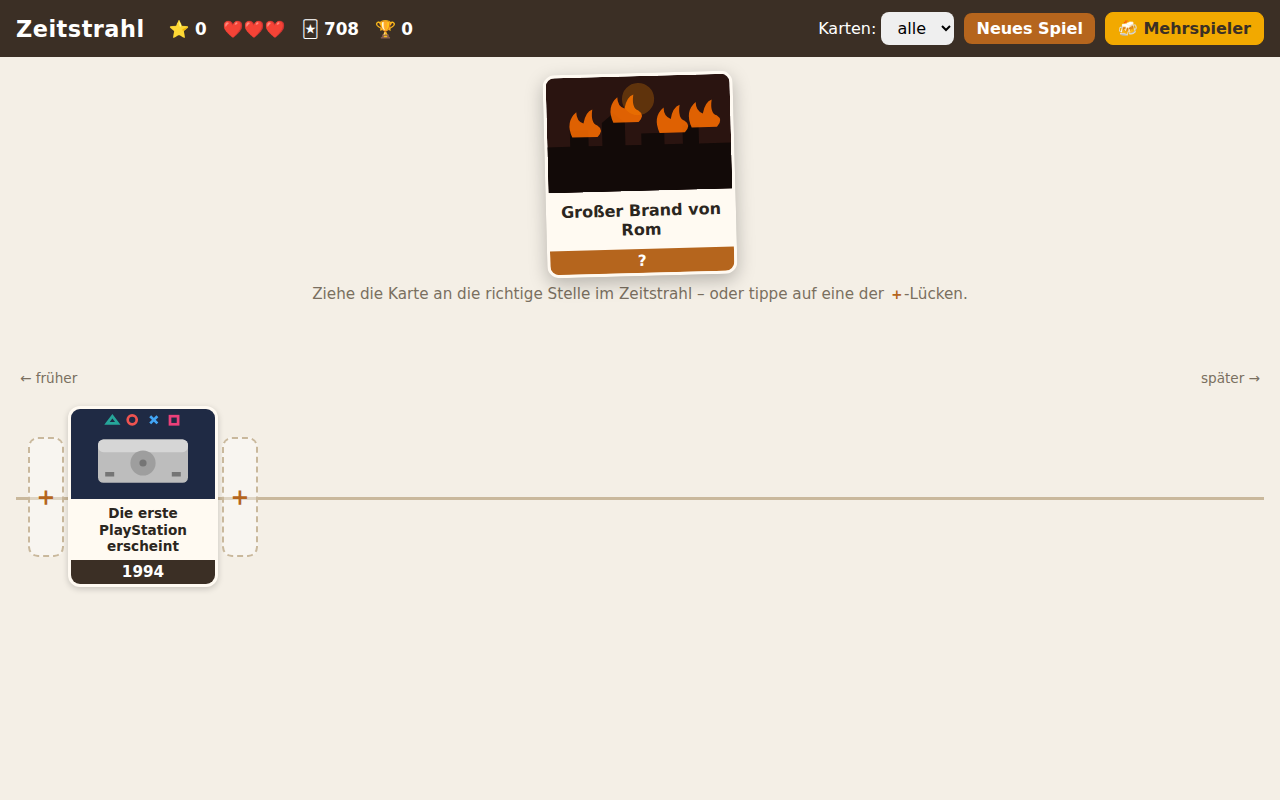
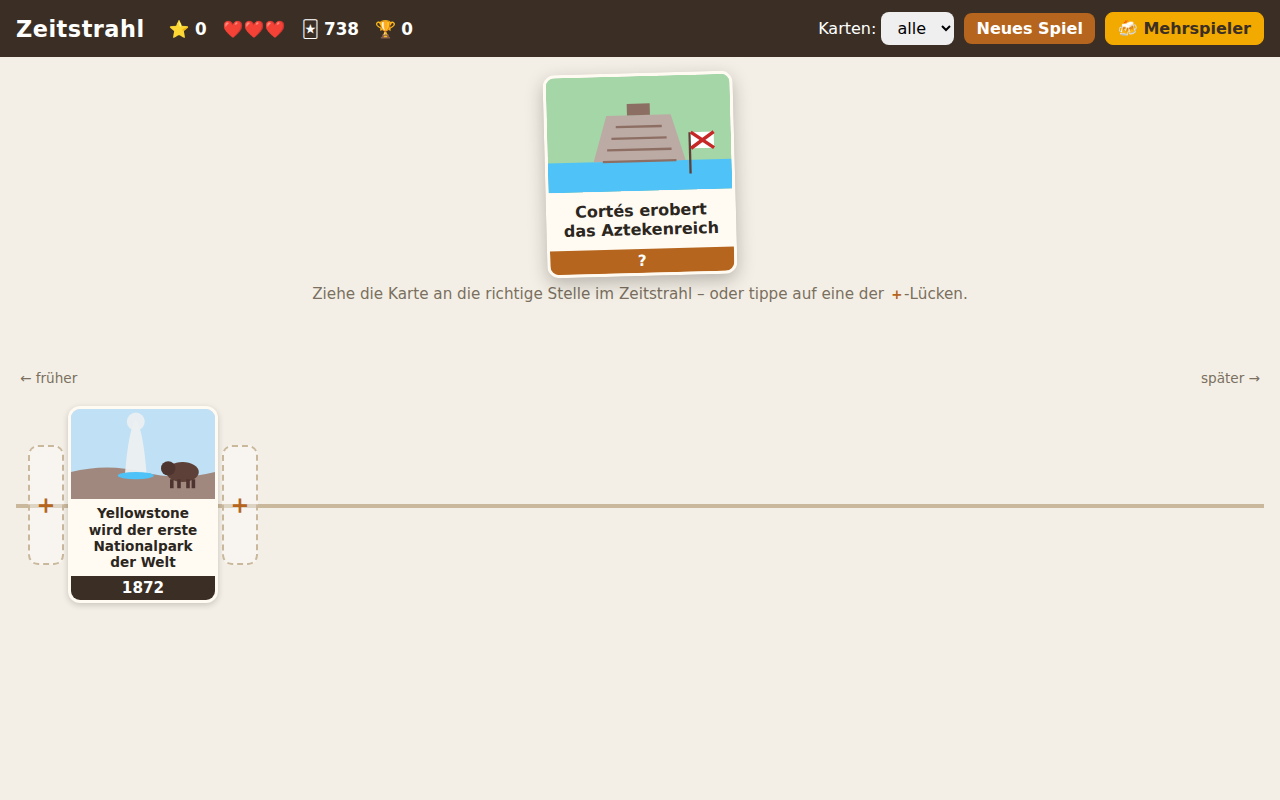
Add 30 famous deaths
Claude-Session: https://claude.ai/code/session_01Nr3EjojewoDudnqC8Cy7nP

Changed region(s): [[0.0, 0.5, 0.9688, 0.75], [0.4062, 0.0938, 0.5938, 0.3125]]

diff --git a/events.js b/events.js
@@ -58,6 +58,7 @@ const EVENTS = [
   { id: "reinheitsgebot", title: "Das bayerische Reinheitsgebot", year: 1516, image: "img/reinheitsgebot.svg", fact: "Bier durfte nur noch aus Gerste, Hopfen und Wasser gebraut werden." },
   { id: "luther", title: "Luthers 95 Thesen – Reformation", year: 1517, image: "img/luther.svg", fact: "Martin Luther kritisierte den Ablasshandel der Kirche." },
   { id: "magellan", title: "Magellans Weltumsegelung beginnt", year: 1519, image: "img/magellan.svg", fact: "Die erste Umrundung der Erde dauerte drei Jahre – Magellan selbst überlebte sie nicht." },
+  { id: "leonardo_tod", title: "Leonardo da Vinci stirbt", year: 1519, image: "img/leonardo_tod.svg", fact: "Das Universalgenie starb in Frankreich, wo er die letzten Jahre am Hof von König Franz I. verbrachte." },
   { id: "cortes", title: "Cortés erobert das Aztekenreich", year: 1521, image: "img/cortes.svg", fact: "Die Spanier zerstörten die Hauptstadt Tenochtitlan – an ihrer Stelle steht heute Mexiko-Stadt." },
   { id: "septembertestament", title: "Luthers Übersetzung des Neuen Testaments erscheint", year: 1522, image: "img/septembertestament.svg", fact: "Das „Septembertestament“ machte die Bibel für alle verständlich – auf Deutsch." },
   { id: "frankenhausen", title: "Bauernkrieg: Schlacht bei Frankenhausen", year: 1525, image: "img/frankenhausen.svg", fact: "Das Bauernheer unter Thomas Müntzer wurde vernichtend geschlagen." },
@@ -77,6 +78,7 @@ const EVENTS = [
   { id: "pulver", title: "Die Pulververschwörung von Guy Fawkes", year: 1605, image: "img/pulver.svg", fact: "Katholische Verschwörer wollten das englische Parlament in die Luft sprengen – bis heute die „Bonfire Night“." },
   { id: "teleskop", title: "Das Fernrohr wird zum Patent angemeldet", year: 1608, image: "img/teleskop.svg", fact: "Der Brillenmacher Hans Lipperhey wollte es sich in den Niederlanden schützen lassen." },
   { id: "galilei", title: "Galilei entdeckt die Jupitermonde", year: 1610, image: "img/galilei.svg", fact: "Mit seinem Fernrohr sah Galileo Galilei vier Monde um den Jupiter kreisen." },
+  { id: "shakespeare_tod", title: "William Shakespeare stirbt", year: 1616, image: "img/shakespeare_tod.svg", fact: "Der berühmteste Dramatiker der Welt starb in seiner Heimatstadt Stratford-upon-Avon." },
   { id: "dreissig", title: "Beginn des Dreißigjährigen Krieges", year: 1618, image: "img/dreissig.svg", fact: "Ausgelöst wurde er durch den Prager Fenstersturz." },
   { id: "mayflower", title: "Die „Mayflower“ landet in Amerika", year: 1620, image: "img/mayflower.svg", fact: "Die „Pilgerväter“ gründeten in Plymouth eine der ersten englischen Kolonien." },
   { id: "manhattan", title: "Manhattan wird den Ureinwohnern abgekauft", year: 1626, image: "img/manhattan.svg", fact: "Peter Minuit bezahlte angeblich mit Waren im Wert von 60 Gulden." },
@@ -110,7 +112,9 @@ const EVENTS = [
   { id: "firstfleet", title: "Erste britische Sträflingsflotte landet in Australien", year: 1788, image: "img/firstfleet.svg", fact: "Am 26. Januar gründeten die Briten Sydney – heute „Australia Day“." },
   { id: "franz_revolution", title: "Französische Revolution – Sturm auf die Bastille", year: 1789, image: "img/franz_revolution.svg", fact: "„Freiheit, Gleichheit, Brüderlichkeit“ wurde zum Leitspruch." },
   { id: "brandenburger_tor", title: "Das Brandenburger Tor wird fertiggestellt", year: 1791, image: "img/brandenburger_tor.svg", fact: "Das Wahrzeichen Berlins stand später jahrzehntelang direkt an der Berliner Mauer." },
+  { id: "mozart_tod", title: "Wolfgang Amadeus Mozart stirbt", year: 1791, image: "img/mozart_tod.svg", fact: "Er starb mit nur 35 Jahren in Wien – sein Requiem blieb unvollendet." },
   { id: "ludwig16", title: "Hinrichtung von König Ludwig XVI.", year: 1793, image: "img/ludwig16.svg", fact: "Der französische König wurde in Paris mit der Guillotine hingerichtet." },
+  { id: "antoinette", title: "Marie Antoinette wird hingerichtet", year: 1793, image: "img/antoinette.svg", fact: "Die Königin Frankreichs starb neun Monate nach ihrem Mann Ludwig XVI. unter der Guillotine." },
   { id: "impfung", title: "Edward Jenner erfindet die Pockenimpfung", year: 1796, image: "img/impfung.svg", fact: "Er nutzte harmlose Kuhpocken – daher kommt das Wort „Vakzin“ (lateinisch vacca = Kuh)." },
   { id: "rosette", title: "Der Stein von Rosette wird entdeckt", year: 1799, image: "img/rosette.svg", fact: "Mit seiner Hilfe konnte Champollion 1822 die Hieroglyphen entziffern." },
   { id: "volta", title: "Alessandro Volta erfindet die Batterie", year: 1800, image: "img/volta.svg", fact: "Seine „Voltasche Säule“ lieferte erstmals dauerhaft Strom – nach ihm ist die Einheit Volt benannt." },
@@ -132,6 +136,7 @@ const EVENTS = [
   { id: "beethoven_tod", title: "Ludwig van Beethoven stirbt", year: 1827, image: "img/beethoven_tod.svg", fact: "Zu seiner Beerdigung in Wien kamen Zehntausende Menschen." },
   { id: "liverpool", title: "Erste Eisenbahn zwischen zwei Großstädten", year: 1830, image: "img/liverpool.svg", fact: "Zwischen Liverpool und Manchester fuhren erstmals regelmäßig Dampfzüge mit Fahrgästen." },
   { id: "hambach", title: "Das Hambacher Fest", year: 1832, image: "img/hambach.svg", fact: "Tausende forderten auf dem Hambacher Schloss Einheit und Freiheit – unter schwarz-rot-goldenen Fahnen." },
+  { id: "goethe_tod", title: "Johann Wolfgang von Goethe stirbt", year: 1832, image: "img/goethe_tod.svg", fact: "Er starb mit 82 Jahren in Weimar – angeblich mit den letzten Worten „Mehr Licht!“." },
   { id: "zollverein", title: "Gründung des Deutschen Zollvereins", year: 1834, image: "img/zollverein.svg", fact: "Viele deutsche Staaten schafften die Zölle untereinander ab – ein Vorläufer der Einheit." },
   { id: "eisenbahn", title: "Erste Eisenbahn in Deutschland", year: 1835, image: "img/eisenbahn.svg", fact: "Der „Adler“ fuhr von Nürnberg nach Fürth." },
   { id: "victoria", title: "Victoria wird Königin von Großbritannien", year: 1837, image: "img/victoria.svg", fact: "Sie bestieg mit 18 Jahren den Thron und regierte 63 Jahre lang." },
@@ -176,6 +181,7 @@ const EVENTS = [
   { id: "sagrada", title: "Grundsteinlegung der Sagrada Família", year: 1882, image: "img/sagrada.svg", fact: "Gaudís Basilika in Barcelona wird bis heute weitergebaut." },
   { id: "krankenversicherung", title: "Bismarck führt die Krankenversicherung ein", year: 1883, image: "img/krankenversicherung.svg", fact: "Deutschland bekam als erstes Land der Welt eine gesetzliche Krankenversicherung." },
   { id: "krakatau", title: "Ausbruch des Krakatau", year: 1883, image: "img/krakatau.svg", fact: "Die Explosion des Vulkans in Indonesien war noch in fast 5.000 Kilometern Entfernung zu hören." },
+  { id: "marx_tod", title: "Karl Marx stirbt", year: 1883, image: "img/marx_tod.svg", fact: "Der Philosoph starb in London, wo er auch auf dem Highgate-Friedhof begraben liegt." },
   { id: "kongokonferenz", title: "Berliner Kongokonferenz", year: 1884, image: "img/kongokonferenz.svg", fact: "Europäische Mächte legten in Berlin Regeln für die Aufteilung Afrikas fest – ohne Afrikaner zu fragen." },
   { id: "reitwagen", title: "Daimler baut das erste Motorrad", year: 1885, image: "img/reitwagen.svg", fact: "Gottlieb Daimler und Wilhelm Maybach bauten den „Reitwagen“ mit Holzrädern." },
   { id: "automobil", title: "Benz baut das erste Automobil", year: 1886, image: "img/automobil.svg", fact: "Der Benz Patent-Motorwagen Nummer 1 hatte drei Räder." },
@@ -187,6 +193,7 @@ const EVENTS = [
   { id: "dreikaiser", title: "Das Dreikaiserjahr", year: 1888, image: "img/dreikaiser.svg", fact: "Deutschland hatte in einem Jahr drei Kaiser: Wilhelm I., Friedrich III. und Wilhelm II." },
   { id: "eiffelturm", title: "Der Eiffelturm wird eingeweiht", year: 1889, image: "img/eiffelturm.svg", fact: "Er wurde für die Weltausstellung in Paris gebaut und sollte eigentlich nach 20 Jahren wieder abgerissen werden." },
   { id: "bismarck", title: "Bismarck wird entlassen", year: 1890, image: "img/bismarck.svg", fact: "Der junge Kaiser Wilhelm II. trennte sich vom „Eisernen Kanzler“." },
+  { id: "vangogh_tod", title: "Vincent van Gogh stirbt", year: 1890, image: "img/vangogh_tod.svg", fact: "Er starb mit 37 Jahren – zu Lebzeiten verkaufte er kaum ein Bild, heute zählen sie zu den teuersten der Welt." },
   { id: "neuseeland", title: "Neuseeland führt das Frauenwahlrecht ein", year: 1893, image: "img/neuseeland.svg", fact: "Es war das erste Land der Welt, in dem Frauen bei Parlamentswahlen wählen durften." },
   { id: "dreyfus", title: "Die Dreyfus-Affäre beginnt", year: 1894, image: "img/dreyfus.svg", fact: "Der jüdische Offizier Alfred Dreyfus wurde unschuldig verurteilt – Émile Zola protestierte mit „J’accuse…!“." },
   { id: "roentgen", title: "Röntgen entdeckt die X-Strahlen", year: 1895, image: "img/roentgen.svg", fact: "Das erste Röntgenbild zeigte die Hand seiner Frau – mit Ehering." },
@@ -201,6 +208,7 @@ const EVENTS = [
   { id: "fcbayern", title: "Gründung des FC Bayern München", year: 1900, image: "img/fcbayern.svg", fact: "Am 27. Februar gründeten elf Fußballer in einer Gaststätte in Schwabing den Verein." },
   { id: "marconi", title: "Erste Funkübertragung über den Atlantik", year: 1901, image: "img/marconi.svg", fact: "Guglielmo Marconi empfing in Neufundland ein Funksignal aus England – ganz ohne Kabel." },
   { id: "nobelpreis", title: "Die ersten Nobelpreise werden verliehen", year: 1901, image: "img/nobelpreis.svg", fact: "Der erste Physik-Nobelpreis ging an Wilhelm Conrad Röntgen." },
+  { id: "victoria_tod", title: "Queen Victoria stirbt", year: 1901, image: "img/victoria_tod.svg", fact: "Nach 63 Jahren auf dem Thron endete das „Viktorianische Zeitalter“." },
   { id: "motorflug", title: "Erster Motorflug der Brüder Wright", year: 1903, image: "img/motorflug.svg", fact: "Der erste Flug dauerte nur 12 Sekunden und war 37 Meter lang." },
   { id: "adac", title: "Gründung des ADAC", year: 1903, image: "img/adac.svg", fact: "Der Club wurde in Stuttgart als „Deutsche Motorradfahrer-Vereinigung“ gegründet und heißt seit 1911 ADAC." },
   { id: "ubahn_ny", title: "Die New Yorker U-Bahn wird eröffnet", year: 1904, image: "img/ubahn_ny.svg", fact: "Heute ist die New York City Subway eines der größten U-Bahn-Netze der Welt." },
@@ -219,10 +227,12 @@ const EVENTS = [
   { id: "panamakanal", title: "Eröffnung des Panamakanals", year: 1914, image: "img/panamakanal.svg", fact: "Der Kanal verbindet Atlantik und Pazifik und erspart Schiffen die Fahrt um Südamerika." },
   { id: "kafka", title: "Kafkas „Die Verwandlung“ erscheint", year: 1915, image: "img/kafka.svg", fact: "Gregor Samsa erwacht eines Morgens als riesiges Ungeziefer." },
   { id: "verdun", title: "Schlacht um Verdun", year: 1916, image: "img/verdun.svg", fact: "Eine der blutigsten Schlachten des Ersten Weltkriegs – Hunderttausende Soldaten starben." },
+  { id: "rasputin", title: "Rasputin wird ermordet", year: 1916, image: "img/rasputin.svg", fact: "Adlige Verschwörer töteten den einflussreichen Wanderprediger der Zarenfamilie in Sankt Petersburg." },
   { id: "oktoberrevolution", title: "Oktoberrevolution in Russland", year: 1917, image: "img/oktoberrevolution.svg", fact: "Die Bolschewiki unter Lenin übernahmen die Macht – später entstand daraus die Sowjetunion." },
   { id: "frauenwahlrecht", title: "Frauenwahlrecht in Deutschland", year: 1918, image: "img/frauenwahlrecht.svg", fact: "Im Januar 1919 durften Frauen zum ersten Mal in Deutschland wählen und gewählt werden." },
   { id: "de_monarchie", title: "Ende der Monarchie in Deutschland", year: 1918, image: "img/de_monarchie.svg", fact: "Am 9. November dankte Wilhelm II. ab, die Republik wurde ausgerufen." },
   { id: "spanischegrippe", title: "Ausbruch der Spanischen Grippe", year: 1918, image: "img/spanischegrippe.svg", fact: "Die Pandemie forderte weltweit schätzungsweise 25 bis 50 Millionen Todesopfer." },
+  { id: "zarenfamilie", title: "Ermordung der Zarenfamilie", year: 1918, image: "img/zarenfamilie.svg", fact: "Bolschewiki erschossen den gestürzten Zaren Nikolaus II. und seine Familie in Jekaterinburg." },
   { id: "versailles", title: "Versailler Vertrag", year: 1919, image: "img/versailles.svg", fact: "Der Friedensvertrag nach dem Ersten Weltkrieg legte Deutschland harte Bedingungen auf." },
   { id: "bauhaus", title: "Gründung des Bauhauses", year: 1919, image: "img/bauhaus.svg", fact: "Walter Gropius gründete in Weimar die Kunstschule, die Architektur und Design weltweit prägte." },
   { id: "prohibition", title: "Beginn der Prohibition in den USA", year: 1920, image: "img/prohibition.svg", fact: "Alkohol war 13 Jahre lang verboten – davon profitierten vor allem Gangster wie Al Capone." },
@@ -277,6 +287,7 @@ const EVENTS = [
   { id: "auschwitz", title: "Befreiung des KZ Auschwitz", year: 1945, image: "img/auschwitz.svg", fact: "Am 27. Januar befreite die Rote Armee die Überlebenden – der Tag ist heute Holocaust-Gedenktag." },
   { id: "kriegsende", title: "Ende des Zweiten Weltkriegs in Europa", year: 1945, image: "img/kriegsende.svg", fact: "Am 8. Mai kapitulierte die deutsche Wehrmacht bedingungslos." },
   { id: "nuernberg", title: "Beginn der Nürnberger Prozesse", year: 1945, image: "img/nuernberg.svg", fact: "Führende Nationalsozialisten mussten sich vor einem internationalen Gericht verantworten." },
+  { id: "hitler_tod", title: "Hitler begeht Selbstmord im Führerbunker", year: 1945, image: "img/hitler_tod.svg", fact: "Am 30. April 1945 nahm er sich in Berlin das Leben – eine Woche später kapitulierte Deutschland." },
   { id: "lucky_luke", title: "Lucky Luke erscheint zum ersten Mal", year: 1946, image: "img/lucky_luke.svg", fact: "Der Belgier Morris erfand den Cowboy, „der schneller zieht als sein Schatten“." },
   { id: "nba", title: "Die erste Saison der heutigen NBA startet", year: 1946, image: "img/nba.svg", fact: "Die Liga hieß zuerst BAA und bekam 1949 den Namen NBA." },
   { id: "italien_rep", title: "Italien wird Republik", year: 1946, image: "img/italien_rep.svg", fact: "Per Volksabstimmung am 2. Juni 1946 entschieden sich die Italiener gegen die Monarchie." },
@@ -293,6 +304,7 @@ const EVENTS = [
   { id: "dmark", title: "Die D-Mark wird eingeführt", year: 1948, image: "img/dmark.svg", fact: "Mit der Währungsreform bekam jeder in den Westzonen 40 DM „Kopfgeld“ – die Läden füllten sich über Nacht." },
   { id: "luftbruecke", title: "Beginn der Berliner Luftbrücke", year: 1948, image: "img/luftbruecke.svg", fact: "Als die Sowjetunion West-Berlin blockierte, versorgten „Rosinenbomber“ die Stadt fast ein Jahr lang aus der Luft." },
   { id: "puma", title: "Gründung von Puma", year: 1948, image: "img/puma.svg", fact: "Rudolf Dassler gründete Puma in Herzogenaurach – nach dem Streit mit seinem Bruder Adi." },
+  { id: "gandhi_tod", title: "Mahatma Gandhi wird ermordet", year: 1948, image: "img/gandhi_tod.svg", fact: "Ein hindu-nationalistischer Attentäter erschoss den Vater der indischen Unabhängigkeit in Neu-Delhi." },
   { id: "grundgesetz", title: "Das Grundgesetz – Gründung der Bundesrepublik", year: 1949, image: "img/grundgesetz.svg", fact: "Am 23. Mai 1949 trat die Verfassung der Bundesrepublik Deutschland in Kraft." },
   { id: "nato", title: "Gründung der NATO", year: 1949, image: "img/nato.svg", fact: "Zwölf Staaten aus Nordamerika und Europa gründeten in Washington ein Verteidigungsbündnis." },
   { id: "fdp", title: "Die FDP ist erstmals an der Bundesregierung beteiligt", year: 1949, image: "img/fdp.svg", fact: "Sie regierte im ersten Kabinett von Konrad Adenauer mit – Theodor Heuss von der FDP wurde Bundespräsident." },
@@ -316,6 +328,7 @@ const EVENTS = [
   { id: "bundeswehr", title: "Gründung der Bundeswehr", year: 1955, image: "img/bundeswehr.svg", fact: "Zehn Jahre nach Kriegsende bekam die Bundesrepublik wieder eine Armee." },
   { id: "guinnessbuch", title: "Das erste Guinness-Buch der Rekorde erscheint", year: 1955, image: "img/guinnessbuch.svg", fact: "Die Idee entstand, um Streitfragen in Pubs zu klären – heute ist es eines der meistverkauften Bücher der Welt." },
   { id: "jamesdean", title: "James Dean stirbt", year: 1955, image: "img/jamesdean.svg", fact: "Der Filmstar („… denn sie wissen nicht, was sie tun“) starb mit 24 Jahren bei einem Autounfall." },
+  { id: "einstein_tod", title: "Albert Einstein stirbt", year: 1955, image: "img/einstein_tod.svg", fact: "Der Physiker starb in Princeton (USA), wohin er 1933 vor den Nazis geflohen war." },
   { id: "ungarn1956", title: "Volksaufstand in Ungarn", year: 1956, image: "img/ungarn1956.svg", fact: "Die Ungarn erhoben sich gegen die kommunistische Regierung – sowjetische Panzer schlugen den Aufstand nieder." },
   { id: "esc", title: "Der erste Eurovision Song Contest", year: 1956, image: "img/esc.svg", fact: "Sieben Länder nahmen im schweizerischen Lugano teil – die Schweiz gewann." },
   { id: "sputnik", title: "Sputnik – erster künstlicher Satellit", year: 1957, image: "img/sputnik.svg", fact: "Der sowjetische Satellit löste den „Wettlauf ins All“ aus." },
@@ -335,6 +348,7 @@ const EVENTS = [
   { id: "beatles", title: "Die Beatles veröffentlichen ihre erste Single", year: 1962, image: "img/beatles.svg", fact: "„Love Me Do“ war der Startschuss für die erfolgreichste Band der Musikgeschichte." },
   { id: "jamesbond", title: "Der erste James-Bond-Film kommt ins Kino", year: 1962, image: "img/jamesbond.svg", fact: "In „James Bond jagt Dr. No“ spielte Sean Connery den Agenten 007." },
   { id: "algerien", title: "Algerien wird unabhängig", year: 1962, image: "img/algerien.svg", fact: "Nach einem achtjährigen Krieg gegen Frankreich wurde Algerien ein eigener Staat." },
+  { id: "monroe", title: "Marilyn Monroe stirbt", year: 1962, image: "img/monroe.svg", fact: "Die Filmikone wurde mit 36 Jahren tot in ihrem Haus in Los Angeles aufgefunden." },
   { id: "mlk", title: "Martin Luther King: „I Have a Dream“", year: 1963, image: "img/mlk.svg", fact: "Vor über 250.000 Menschen in Washington forderte King gleiche Rechte für Schwarze und Weiße." },
   { id: "jfk", title: "Attentat auf John F. Kennedy", year: 1963, image: "img/jfk.svg", fact: "Der US-Präsident wurde am 22. November in Dallas während einer Autofahrt erschossen." },
   { id: "bundesliga", title: "Die erste Bundesliga-Saison startet", year: 1963, image: "img/bundesliga.svg", fact: "Erster Meister der neuen Liga wurde der 1. FC Köln." },
@@ -344,9 +358,11 @@ const EVENTS = [
   { id: "malcolmx", title: "Malcolm X wird ermordet", year: 1965, image: "img/malcolmx.svg", fact: "Der Bürgerrechtler wurde am 21. Februar in New York erschossen." },
   { id: "wembley", title: "Das Wembley-Tor", year: 1966, image: "img/wembley.svg", fact: "Im WM-Finale gegen Deutschland zählte ein Schuss von Geoff Hurst – ob der Ball hinter der Linie war, ist bis heute umstritten." },
   { id: "startrek", title: "Die erste Folge von „Star Trek“", year: 1966, image: "img/startrek.svg", fact: "Captain Kirk und Mr. Spock starteten mit der Enterprise – in Deutschland als „Raumschiff Enterprise“." },
+  { id: "disney_tod", title: "Walt Disney stirbt", year: 1966, image: "img/disney_tod.svg", fact: "Der Erfinder von Micky Maus starb, bevor seine Pläne für Disney World in Florida fertig waren." },
   { id: "herz", title: "Erste Herztransplantation", year: 1967, image: "img/herz.svg", fact: "Der Chirurg Christiaan Barnard verpflanzte in Kapstadt erstmals ein menschliches Herz." },
   { id: "ltb", title: "Das erste Lustige Taschenbuch erscheint in Deutschland", year: 1967, image: "img/ltb.svg", fact: "Band 1 hieß „Der Kolumbusfalter“ – heute gibt es Hunderte Bände." },
   { id: "ohnesorg", title: "Benno Ohnesorg wird erschossen", year: 1967, image: "img/ohnesorg.svg", fact: "Der Student starb bei einer Demonstration gegen den Schah-Besuch in Berlin – ein Wendepunkt der 68er-Bewegung." },
+  { id: "che", title: "Che Guevara wird in Bolivien erschossen", year: 1967, image: "img/che.svg", fact: "Der Revolutionär wurde gefangen genommen und hingerichtet – sein Porträt ist bis heute ein Pop-Symbol." },
   { id: "68er", title: "Studentenproteste der 68er-Bewegung", year: 1968, image: "img/68er.svg", fact: "Junge Menschen protestierten weltweit gegen den Vietnamkrieg und für mehr Mitbestimmung." },
   { id: "mlk_tod", title: "Martin Luther King wird ermordet", year: 1968, image: "img/mlk_tod.svg", fact: "Der Bürgerrechtler wurde in Memphis auf dem Balkon seines Motels erschossen." },
   { id: "prag68", title: "Niederschlagung des Prager Frühlings", year: 1968, image: "img/prag68.svg", fact: "Truppen des Warschauer Pakts beendeten im August die Reformen in der Tschechoslowakei." },
@@ -356,6 +372,7 @@ const EVENTS = [
   { id: "woodstock", title: "Das Woodstock-Festival", year: 1969, image: "img/woodstock.svg", fact: "Rund 400.000 Menschen feierten drei Tage lang „Love, Peace and Music“." },
   { id: "kniefall", title: "Kniefall von Warschau", year: 1970, image: "img/kniefall.svg", fact: "Bundeskanzler Willy Brandt kniete am Denkmal für die Opfer des Warschauer Ghettos nieder." },
   { id: "beatles_ende", title: "Die Beatles trennen sich", year: 1970, image: "img/beatles_ende.svg", fact: "Paul McCartney gab das Ende der erfolgreichsten Band der Geschichte bekannt." },
+  { id: "hendrix", title: "Jimi Hendrix stirbt", year: 1970, image: "img/hendrix.svg", fact: "Der Gitarrengott starb mit 27 Jahren in London – Teil des berüchtigten „Club 27“." },
   { id: "email", title: "Die erste E-Mail wird verschickt", year: 1971, image: "img/email.svg", fact: "Ray Tomlinson führte dafür das @-Zeichen in E-Mail-Adressen ein." },
   { id: "mcdonalds", title: "Erste deutsche McDonald’s-Filiale öffnet", year: 1971, image: "img/mcdonalds.svg", fact: "Die erste Filiale in Deutschland eröffnete am 4. Dezember in München." },
   { id: "ubahn_muc", title: "Die erste U-Bahn in München fährt", year: 1971, image: "img/ubahn_muc.svg", fact: "Rechtzeitig vor den Olympischen Spielen 1972 eröffnete die Strecke zwischen Kieferngarten und Goetheplatz." },
@@ -367,6 +384,7 @@ const EVENTS = [
   { id: "oelkrise", title: "Ölkrise – autofreie Sonntage", year: 1973, image: "img/oelkrise.svg", fact: "Weil Öl knapp und teuer wurde, waren in der Bundesrepublik an vier Sonntagen Autofahrten verboten." },
   { id: "bigmac", title: "Der Big Mac kommt nach Deutschland", year: 1973, image: "img/bigmac.svg", fact: "Zwei Jahre nach der ersten deutschen McDonald’s-Filiale kam der doppelstöckige Burger auf die Karte." },
   { id: "sydney", title: "Das Opernhaus von Sydney wird eröffnet", year: 1973, image: "img/sydney.svg", fact: "Das Dach erinnert an Segel – heute ist das Gebäude Weltkulturerbe." },
+  { id: "brucelee", title: "Bruce Lee stirbt", year: 1973, image: "img/brucelee.svg", fact: "Die Kampfkunst-Legende starb mit nur 32 Jahren kurz vor dem Start von „Der Mann mit der Todeskralle“." },
   { id: "wm1974", title: "Deutschland wird im eigenen Land Weltmeister", year: 1974, image: "img/wm1974.svg", fact: "Im Finale in München traf Gerd Müller zum 2:1 gegen die Niederlande." },
   { id: "abba", title: "ABBA gewinnt den Eurovision Song Contest", year: 1974, image: "img/abba.svg", fact: "Mit „Waterloo“ begann der Weltruhm der schwedischen Band." },
   { id: "rubik", title: "Der Zauberwürfel wird erfunden", year: 1974, image: "img/rubik.svg", fact: "Der Ungar Ernő Rubik erfand den Würfel – er wurde zu einem der meistverkauften Spielzeuge der Welt." },
@@ -385,6 +403,7 @@ const EVENTS = [
   { id: "starwars", title: "„Krieg der Sterne“ kommt ins Kino", year: 1977, image: "img/starwars.svg", fact: "George Lucas’ Weltraumabenteuer mit Luke Skywalker und Darth Vader wurde ein Welterfolg." },
   { id: "teneriffa", title: "Flugzeugunglück von Teneriffa", year: 1977, image: "img/teneriffa.svg", fact: "Zwei Jumbojets kollidierten im Nebel – 583 Tote, das schwerste Unglück der Luftfahrtgeschichte." },
   { id: "mogadischu", title: "Befreiung der „Landshut“ in Mogadischu", year: 1977, image: "img/mogadischu.svg", fact: "Die GSG 9 befreite am 18. Oktober alle Geiseln der entführten Lufthansa-Maschine." },
+  { id: "chaplin", title: "Charlie Chaplin stirbt", year: 1977, image: "img/chaplin.svg", fact: "Der Stummfilmstar („Der Tramp“) starb am ersten Weihnachtstag in der Schweiz." },
   { id: "retortenbaby", title: "Erstes „Retortenbaby“ wird geboren", year: 1978, image: "img/retortenbaby.svg", fact: "Louise Brown war der erste Mensch, der durch künstliche Befruchtung im Labor entstand." },
   { id: "papst_jp2", title: "Johannes Paul II. wird Papst", year: 1978, image: "img/papst_jp2.svg", fact: "Der Pole Karol Wojtyła war der erste nicht-italienische Papst seit über 450 Jahren." },
   { id: "walkman", title: "Der Walkman kommt auf den Markt", year: 1979, image: "img/walkman.svg", fact: "Zum ersten Mal konnte man Musik überall mit Kopfhörern hören – auf Kassette." },
@@ -402,6 +421,7 @@ const EVENTS = [
   { id: "sperrbezirk", title: "„Skandal im Sperrbezirk“ erscheint", year: 1981, image: "img/sperrbezirk.svg", fact: "Der Bayerische Rundfunk spielte den Song der Spider Murphy Gang zunächst nicht – trotzdem wurde er ein Riesenhit." },
   { id: "indianajones", title: "Der erste Indiana-Jones-Film kommt ins Kino", year: 1981, image: "img/indianajones.svg", fact: "In „Jäger des verlorenen Schatzes“ jagte Harrison Ford mit Hut und Peitsche nach der Bundeslade." },
   { id: "charlesdiana", title: "Hochzeit von Prinz Charles und Diana", year: 1981, image: "img/charlesdiana.svg", fact: "Rund 750 Millionen Menschen weltweit sahen die Trauung im Fernsehen." },
+  { id: "marley", title: "Bob Marley stirbt", year: 1981, image: "img/marley.svg", fact: "Der Reggae-Star starb mit 36 Jahren an Krebs – Jamaika ehrte ihn mit einem Staatsbegräbnis." },
   { id: "cd", title: "Die CD kommt auf den Markt", year: 1982, image: "img/cd.svg", fact: "Die silberne Scheibe löste nach und nach Schallplatte und Kassette ab." },
   { id: "falkland", title: "Falklandkrieg", year: 1982, image: "img/falkland.svg", fact: "Argentinien besetzte die britischen Falklandinseln – Großbritannien eroberte sie nach zehn Wochen zurück." },
   { id: "majortom", title: "„Major Tom (völlig losgelöst)“ erscheint", year: 1982, image: "img/majortom.svg", fact: "Peter Schillings Song über einen Astronauten wurde ein Nummer-eins-Hit der Neuen Deutschen Welle." },
@@ -530,6 +550,7 @@ const EVENTS = [
   { id: "reddit", title: "Reddit geht online", year: 2005, image: "img/reddit.svg", fact: "Die Plattform nennt sich selbst „die Titelseite des Internets“." },
   { id: "katrina", title: "Hurrikan Katrina", year: 2005, image: "img/katrina.svg", fact: "Der Sturm überflutete große Teile von New Orleans." },
   { id: "hartz4", title: "Hartz IV wird eingeführt", year: 2005, image: "img/hartz4.svg", fact: "Arbeitslosen- und Sozialhilfe wurden zum „Arbeitslosengeld II“ zusammengelegt." },
+  { id: "jp2_tod", title: "Papst Johannes Paul II. stirbt", year: 2005, image: "img/jp2_tod.svg", fact: "Nach fast 27 Jahren im Amt starb der polnische Papst – Millionen pilgerten nach Rom." },
   { id: "wm2006", title: "Fußball-WM in Deutschland – das „Sommermärchen“", year: 2006, image: "img/wm2006.svg", fact: "Deutschland feierte als Gastgeber und wurde Dritter." },
   { id: "loew", title: "Joachim Löw wird Bundestrainer", year: 2006, image: "img/loew.svg", fact: "Nach der Heim-WM übernahm er von Jürgen Klinsmann und gewann 2014 den WM-Titel." },
   { id: "zidane", title: "Zidanes Kopfstoß gegen Materazzi", year: 2006, image: "img/zidane.svg", fact: "Im WM-Finale in Berlin sah Zidane Rot – Italien gewann danach im Elfmeterschießen gegen Frankreich." },
@@ -538,6 +559,7 @@ const EVENTS = [
   { id: "twitter", title: "Gründung von Twitter", year: 2006, image: "img/twitter.svg", fact: "Der erste Tweet von Jack Dorsey lautete „just setting up my twttr“." },
   { id: "pluto_zwerg", title: "Pluto verliert seinen Status als Planet", year: 2006, image: "img/pluto_zwerg.svg", fact: "Die Astronomen stuften ihn zum „Zwergplaneten“ herab – seitdem hat das Sonnensystem acht Planeten." },
   { id: "wii", title: "Die Nintendo Wii erscheint", year: 2006, image: "img/wii.svg", fact: "Mit der Bewegungssteuerung spielten plötzlich auch Großeltern Bowling im Wohnzimmer." },
+  { id: "saddam", title: "Saddam Hussein wird hingerichtet", year: 2006, image: "img/saddam.svg", fact: "Der ehemalige irakische Diktator wurde nach einem Prozess in Bagdad gehängt." },
   { id: "smartphone", title: "Das erste iPhone wird vorgestellt", year: 2007, image: "img/smartphone.svg", fact: "Es machte Touchscreen-Smartphones massentauglich." },
   { id: "rauchverbot", title: "Erste Rauchverbote in deutschen Gaststätten", year: 2007, image: "img/rauchverbot.svg", fact: "Baden-Württemberg und Niedersachsen machten den Anfang, die anderen Länder folgten." },
   { id: "hp_letzter", title: "Der letzte Harry-Potter-Band erscheint", year: 2007, image: "img/hp_letzter.svg", fact: "„Harry Potter und die Heiligtümer des Todes“ beendete die siebenteilige Reihe." },
@@ -546,6 +568,7 @@ const EVENTS = [
   { id: "nepal", title: "Nepal wird Republik", year: 2008, image: "img/nepal.svg", fact: "Am 28. Mai 2008 wurde die 240 Jahre alte Monarchie abgeschafft." },
   { id: "breakingbad", title: "Die Serie „Breaking Bad“ startet", year: 2008, image: "img/breakingbad.svg", fact: "Ein Chemielehrer wird zum Drogenkoch – für viele die beste Serie aller Zeiten." },
   { id: "peking2008", title: "Olympische Sommerspiele in Peking", year: 2008, image: "img/peking2008.svg", fact: "Michael Phelps gewann acht Goldmedaillen – das „Vogelnest“ wurde weltberühmt." },
+  { id: "ledger", title: "Heath Ledger stirbt", year: 2008, image: "img/ledger.svg", fact: "Für seine Rolle als Joker in „The Dark Knight“ erhielt er posthum den Oscar." },
   { id: "bitcoin", title: "Bitcoin – die erste Kryptowährung startet", year: 2009, image: "img/bitcoin.svg", fact: "Wer sich hinter dem Erfinder „Satoshi Nakamoto“ verbirgt, ist bis heute unbekannt." },
   { id: "obama", title: "Barack Obama wird US-Präsident", year: 2009, image: "img/obama.svg", fact: "Er war der erste afroamerikanische Präsident der USA." },
   { id: "wolfsburg", title: "Der VfL Wolfsburg wird Deutscher Meister", year: 2009, image: "img/wolfsburg.svg", fact: "Unter Trainer Felix Magath holte der VfL seine bisher einzige Meisterschaft." },
@@ -577,6 +600,7 @@ const EVENTS = [
   { id: "kate_william", title: "Hochzeit von Prinz William und Kate", year: 2011, image: "img/kate_william.svg", fact: "Die Trauung fand in der Westminster Abbey in London statt." },
   { id: "jobs_tod", title: "Steve Jobs stirbt", year: 2011, image: "img/jobs_tod.svg", fact: "Der Apple-Gründer prägte Mac, iPod, iPhone und iPad." },
   { id: "guttenberg", title: "Guttenberg tritt wegen Plagiats zurück", year: 2011, image: "img/guttenberg.svg", fact: "Verteidigungsminister Karl-Theodor zu Guttenberg hatte große Teile seiner Doktorarbeit abgeschrieben." },
+  { id: "winehouse", title: "Amy Winehouse stirbt", year: 2011, image: "img/winehouse.svg", fact: "Die Sängerin („Back to Black“) starb mit 27 Jahren in London." },
   { id: "curiosity", title: "Mars-Rover Curiosity landet", year: 2012, image: "img/curiosity.svg", fact: "Der Rover in Autogröße fand Hinweise, dass es auf dem Mars einst Wasser gab." },
   { id: "gangnam", title: "„Gangnam Style“ erscheint auf YouTube", year: 2012, image: "img/gangnam.svg", fact: "Das Video des südkoreanischen Rappers PSY war das erste auf YouTube mit über einer Milliarde Aufrufen." },
   { id: "higgs", title: "Entdeckung des Higgs-Teilchens", year: 2012, image: "img/higgs.svg", fact: "Am Forschungszentrum CERN wiesen Physiker das lange gesuchte Teilchen nach." },
@@ -584,6 +608,7 @@ const EVENTS = [
   { id: "baumgartner", title: "Felix Baumgartners Sprung aus der Stratosphäre", year: 2012, image: "img/baumgartner.svg", fact: "Er sprang aus rund 39 Kilometern Höhe und durchbrach im freien Fall die Schallmauer." },
   { id: "concordia", title: "Die „Costa Concordia“ kentert", year: 2012, image: "img/concordia.svg", fact: "Das Kreuzfahrtschiff rammte vor der italienischen Insel Giglio einen Felsen – 32 Menschen starben." },
   { id: "wulff", title: "Christian Wulff tritt als Bundespräsident zurück", year: 2012, image: "img/wulff.svg", fact: "Vorausgegangen waren Vorwürfe wegen eines Privatkredits und Vorteilsnahme." },
+  { id: "whitney", title: "Whitney Houston stirbt", year: 2012, image: "img/whitney.svg", fact: "Die Sängerin („I Will Always Love You“) starb am Vorabend der Grammy-Verleihung." },
   { id: "afd", title: "Gründung der AfD", year: 2013, image: "img/afd.svg", fact: "Die „Alternative für Deutschland“ wurde zunächst als eurokritische Partei gegründet." },
   { id: "wrecking_ball", title: "Miley Cyrus veröffentlicht „Wrecking Ball“", year: 2013, image: "img/wrecking_ball.svg", fact: "Das Musikvideo, in dem sie auf einer Abrissbirne sitzt, stellte einen Aufrufrekord auf." },
   { id: "snowden", title: "Snowden-Enthüllungen", year: 2013, image: "img/snowden.svg", fact: "Edward Snowden machte öffentlich, wie Geheimdienste weltweit Internet und Telefone überwachen." },
@@ -595,6 +620,7 @@ const EVENTS = [
   { id: "benedikt_ruecktritt", title: "Papst Benedikt XVI. tritt zurück", year: 2013, image: "img/benedikt_ruecktritt.svg", fact: "Es war der erste freiwillige Rücktritt eines Papstes seit Jahrhunderten." },
   { id: "triple2013", title: "Der FC Bayern gewinnt das Triple", year: 2013, image: "img/triple2013.svg", fact: "Meisterschaft, DFB-Pokal und Champions League in einer Saison – als erster deutscher Verein." },
   { id: "boston", title: "Anschlag auf den Boston-Marathon", year: 2013, image: "img/boston.svg", fact: "Zwei Bomben explodierten nahe der Ziellinie; drei Menschen starben, Hunderte wurden verletzt." },
+  { id: "mandela_tod", title: "Nelson Mandela stirbt", year: 2013, image: "img/mandela_tod.svg", fact: "Südafrikas erster schwarzer Präsident starb mit 95 Jahren – die Welt trauerte um „Madiba“." },
   { id: "wm2014", title: "Deutschland wird Fußball-Weltmeister in Brasilien", year: 2014, image: "img/wm2014.svg", fact: "Mario Götze schoss im Finale gegen Argentinien das 1:0 – der vierte WM-Titel." },
   { id: "robin_williams", title: "Robin Williams stirbt", year: 2014, image: "img/robin_williams.svg", fact: "Der Schauspieler („Mrs. Doubtfire“, Stimme des Dschinni in „Aladdin“) starb mit 63 Jahren." },
   { id: "wiesn", title: "Die Maß auf der Wiesn kostet erstmals über 10 €", year: 2014, image: "img/wiesn.svg", fact: "Auf dem Oktoberfest kostete die Maß Bier bis zu 10,10 Euro." },
@@ -624,6 +650,7 @@ const EVENTS = [
   { id: "dylan", title: "Bob Dylan erhält den Literaturnobelpreis", year: 2016, image: "img/dylan.svg", fact: "Zum ersten Mal ging der Preis an einen Musiker." },
   { id: "breitscheidplatz", title: "Anschlag auf den Berliner Weihnachtsmarkt", year: 2016, image: "img/breitscheidplatz.svg", fact: "Ein Attentäter raste am Breitscheidplatz mit einem Lkw in die Menschenmenge." },
   { id: "bowie", title: "David Bowie stirbt", year: 2016, image: "img/bowie.svg", fact: "Nur zwei Tage nach seinem 69. Geburtstag und der Veröffentlichung seines letzten Albums." },
+  { id: "ali", title: "Muhammad Ali stirbt", year: 2016, image: "img/ali.svg", fact: "„Ich bin der Größte“ – der Boxer und Bürgerrechtler starb mit 74 Jahren." },
   { id: "trump", title: "Donald Trump wird US-Präsident", year: 2017, image: "img/trump.svg", fact: "Der Unternehmer und frühere TV-Star trat im Januar 2017 sein Amt als 45. Präsident der USA an." },
   { id: "metoo", title: "Die #MeToo-Bewegung", year: 2017, image: "img/metoo.svg", fact: "Nach Berichten über Harvey Weinstein teilten Millionen Frauen unter #MeToo ihre Erfahrungen mit sexueller Belästigung." },
   { id: "neymar", title: "Neymar wechselt für 222 Mio. € zu Paris", year: 2017, image: "img/neymar.svg", fact: "Paris Saint-Germain zahlte dem FC Barcelona die höchste Ablösesumme der Fußballgeschichte." },
@@ -639,6 +666,7 @@ const EVENTS = [
   { id: "thailand_hoehle", title: "Rettung aus der Höhle in Thailand", year: 2018, image: "img/thailand_hoehle.svg", fact: "Zwölf Jungen und ihr Trainer wurden nach über zwei Wochen aus einer überfluteten Höhle gerettet." },
   { id: "dsgvo", title: "Die Datenschutz-Grundverordnung tritt in Kraft", year: 2018, image: "img/dsgvo.svg", fact: "Seit der DSGVO fragen Websites überall nach der Zustimmung zu Cookies." },
   { id: "avicii", title: "Avicii stirbt", year: 2018, image: "img/avicii.svg", fact: "Der schwedische DJ („Wake Me Up“, „Levels“) starb mit nur 28 Jahren." },
+  { id: "hawking", title: "Stephen Hawking stirbt", year: 2018, image: "img/hawking.svg", fact: "Der Astrophysiker starb an Einsteins Geburtstag – trotz ALS hatte er Jahrzehnte geforscht." },
   { id: "schwarzes_loch", title: "Erstes Foto eines Schwarzen Lochs", year: 2019, image: "img/schwarzes_loch.svg", fact: "Acht Radioteleskope rund um die Welt arbeiteten dafür wie ein einziges, erdgroßes Teleskop zusammen." },
   { id: "epstein", title: "Jeffrey Epstein wird festgenommen", year: 2019, image: "img/epstein.svg", fact: "Der US-Multimillionär wurde wegen Menschenhandels mit Minderjährigen angeklagt und starb wenige Wochen später in Haft." },
   { id: "bereal", title: "Die App BeReal erscheint", year: 2019, image: "img/bereal.svg", fact: "Einmal am Tag zur gleichen Zeit ein Foto mit Front- und Rückkamera – der große Hype kam 2022." },
@@ -675,6 +703,7 @@ const EVENTS = [
   { id: "neuneuro", title: "Das 9-Euro-Ticket", year: 2022, image: "img/neuneuro.svg", fact: "Drei Monate lang konnte man für 9 Euro im Monat bundesweit Bus und Bahn im Nahverkehr fahren." },
   { id: "ftx", title: "Pleite der Kryptobörse FTX", year: 2022, image: "img/ftx.svg", fact: "Gründer Sam Bankman-Fried wurde später zu 25 Jahren Haft verurteilt." },
   { id: "wordle", title: "„Wordle“ wird zum Hype", year: 2022, image: "img/wordle.svg", fact: "Das tägliche Worträtsel eroberte die Welt und wurde von der New York Times gekauft." },
+  { id: "pele", title: "Pelé stirbt", year: 2022, image: "img/pele.svg", fact: "Der einzige dreifache Fußball-Weltmeister starb mit 82 Jahren in São Paulo." },
   { id: "atomausstieg", title: "Deutschland schaltet die letzten Atomkraftwerke ab", year: 2023, image: "img/atomausstieg.svg", fact: "Am 15. April 2023 gingen die drei letzten deutschen Kernkraftwerke vom Netz." },
   { id: "barbenheimer", title: "„Barbenheimer“: Barbie und Oppenheimer starten", year: 2023, image: "img/barbenheimer.svg", fact: "Beide Filme kamen am selben Tag in die Kinos und wurden gemeinsam zum Internet-Phänomen." },
   { id: "erastour", title: "Taylor Swifts „Eras Tour“ beginnt", year: 2023, image: "img/erastour.svg", fact: "Sie wurde zur umsatzstärksten Konzerttournee aller Zeiten." },
@@ -699,6 +728,7 @@ const EVENTS = [
   { id: "crowdstrike", title: "Weltweiter IT-Ausfall durch CrowdStrike", year: 2024, image: "img/crowdstrike.svg", fact: "Ein fehlerhaftes Update legte Millionen Windows-Computer lahm – Flughäfen und Banken standen still." },
   { id: "biden_rueckzug", title: "Joe Biden zieht seine Präsidentschaftskandidatur zurück", year: 2024, image: "img/biden_rueckzug.svg", fact: "Nach einem schwachen TV-Duell überließ er die Kandidatur Kamala Harris." },
   { id: "assad", title: "Sturz des Assad-Regimes in Syrien", year: 2024, image: "img/assad.svg", fact: "Nach 13 Jahren Bürgerkrieg floh Baschar al-Assad im Dezember nach Moskau." },
+  { id: "beckenbauer", title: "Franz Beckenbauer stirbt", year: 2024, image: "img/beckenbauer.svg", fact: "Der „Kaiser“ wurde als Spieler und als Trainer Weltmeister." },
   { id: "papst", title: "Leo XIV. – erster Papst aus den USA", year: 2025, image: "img/papst.svg", fact: "Der in Chicago geborene Robert Francis Prevost wurde im Mai 2025 zum Papst gewählt." },
   { id: "merz", title: "Friedrich Merz wird Bundeskanzler", year: 2025, image: "img/merz.svg", fact: "Er wurde erst im zweiten Wahlgang gewählt – das gab es in der Bundesrepublik noch nie." },
   { id: "trump2", title: "Donald Trump beginnt seine zweite Amtszeit", year: 2025, image: "img/trump2.svg", fact: "Am 20. Januar 2025 wurde er als 47. Präsident der USA vereidigt." },
